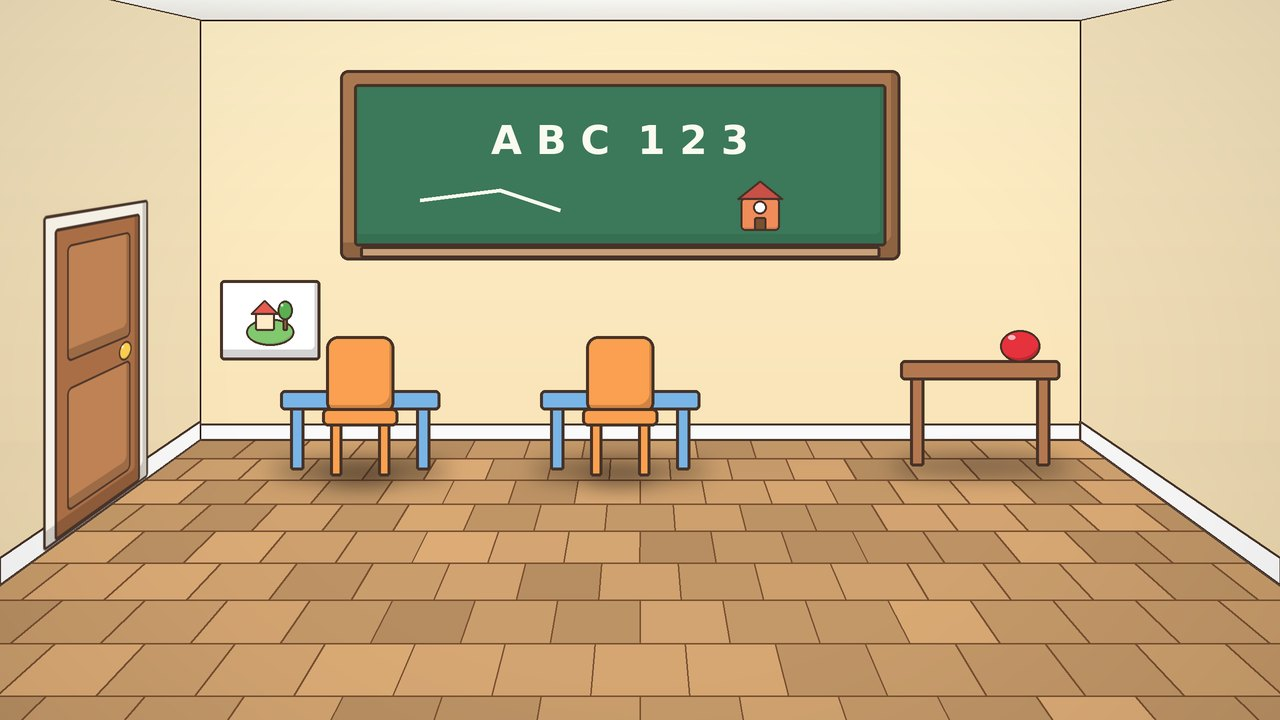
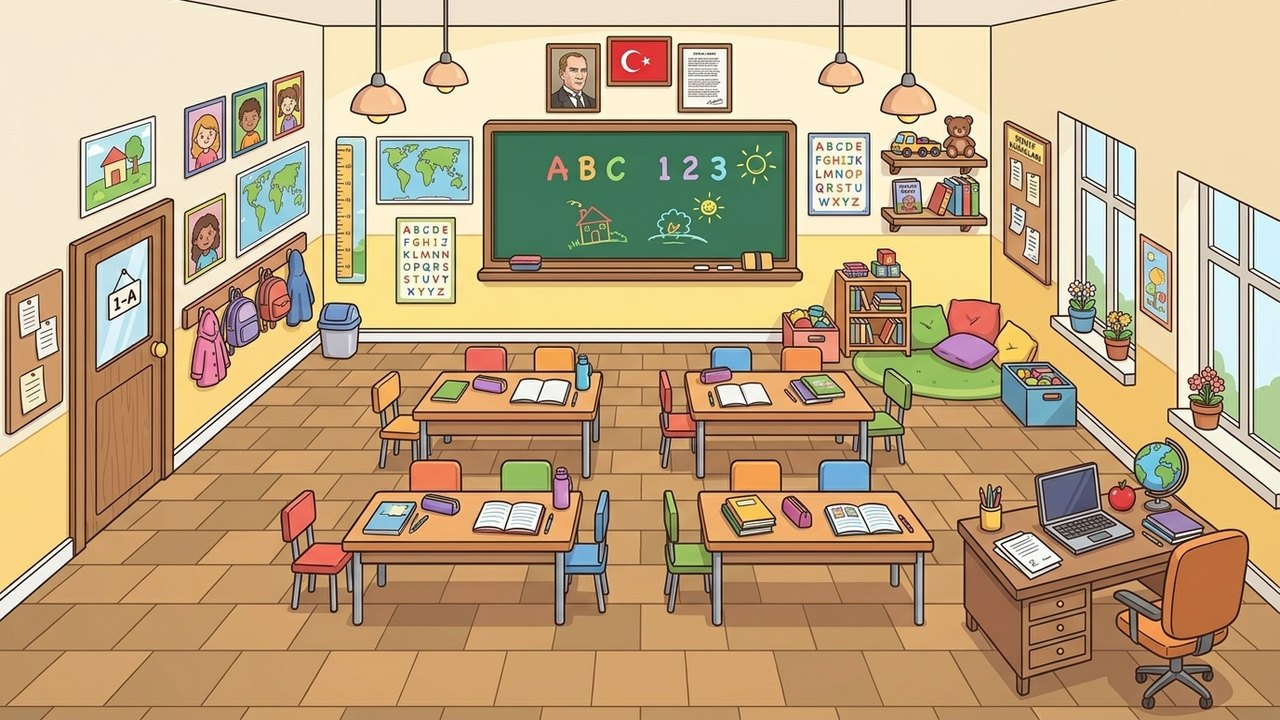
Okul: yeni sınıf resmi, yedi sandalye, sınıfa göre küçük karakterler
Claude-Session: https://claude.ai/code/session_01FSkVF6b9FMUcpnurV8yuFZ

diff --git a/js/veri.js b/js/veri.js
@@ -405,14 +405,23 @@ window.OYUN_VERI = {
     },
     okul: {
       ad: "Okul", simge: "okul",
-      resim: "cizimler/mekan/okul.jpg", zemin: ZEMIN, giris: GIRIS_SOL,
-      kapilar: [{ ...KAPI_SOL, hedef: "dunya", yer: "okul" }],
+      // Sınıf resminin kendi perspektifi var: arka duvar daha yukarıda, kapı daha dar.
+      resim: "cizimler/mekan/okul.jpg",
+      zemin: { ust: 380, alt: 705, sol: 30, sag: 1250, ufuk: { x: 660, y: 58 }, arka: { sol: 321, sag: 1000, y: 342 } },
+      olcek: 0.65, // sıralar küçük çizili: karakterler de küçük görünür
+      giris: { x: 240, y: 590 },
+      kapilar: [{ x: 70, y: 200, w: 105, h: 355, hedef: "dunya", yer: "okul" }],
       calisan: {
-        meslek: "ogretmen", x: 960, y: 500,
+        meslek: "ogretmen", x: 1010, y: 480,
         selam: "Günaydın çocuklar, hoş geldiniz!",
         sozler: ["Kitaplarınızı açın, bugün okuma yapacağız.", "Bugün resim dersimiz var.", "Aferin, çok güzel cevap!", "Parmak kaldırıp söz alalım.", "Teneffüs zili çaldı!"],
       },
-      noktalar: [sandalye(360, 476), sandalye(620, 476)],
+      // Öğrenci sıralarının ve öğretmen masasının sandalyeleri.
+      noktalar: [
+        sandalye(395, 460), sandalye(677, 460), sandalye(893, 460),
+        sandalye(316, 609), sandalye(586, 612), sandalye(686, 609),
+        sandalye(1181, 660),
+      ],
     },
     kafe: {
       ad: "Kafe", simge: "kafe",
